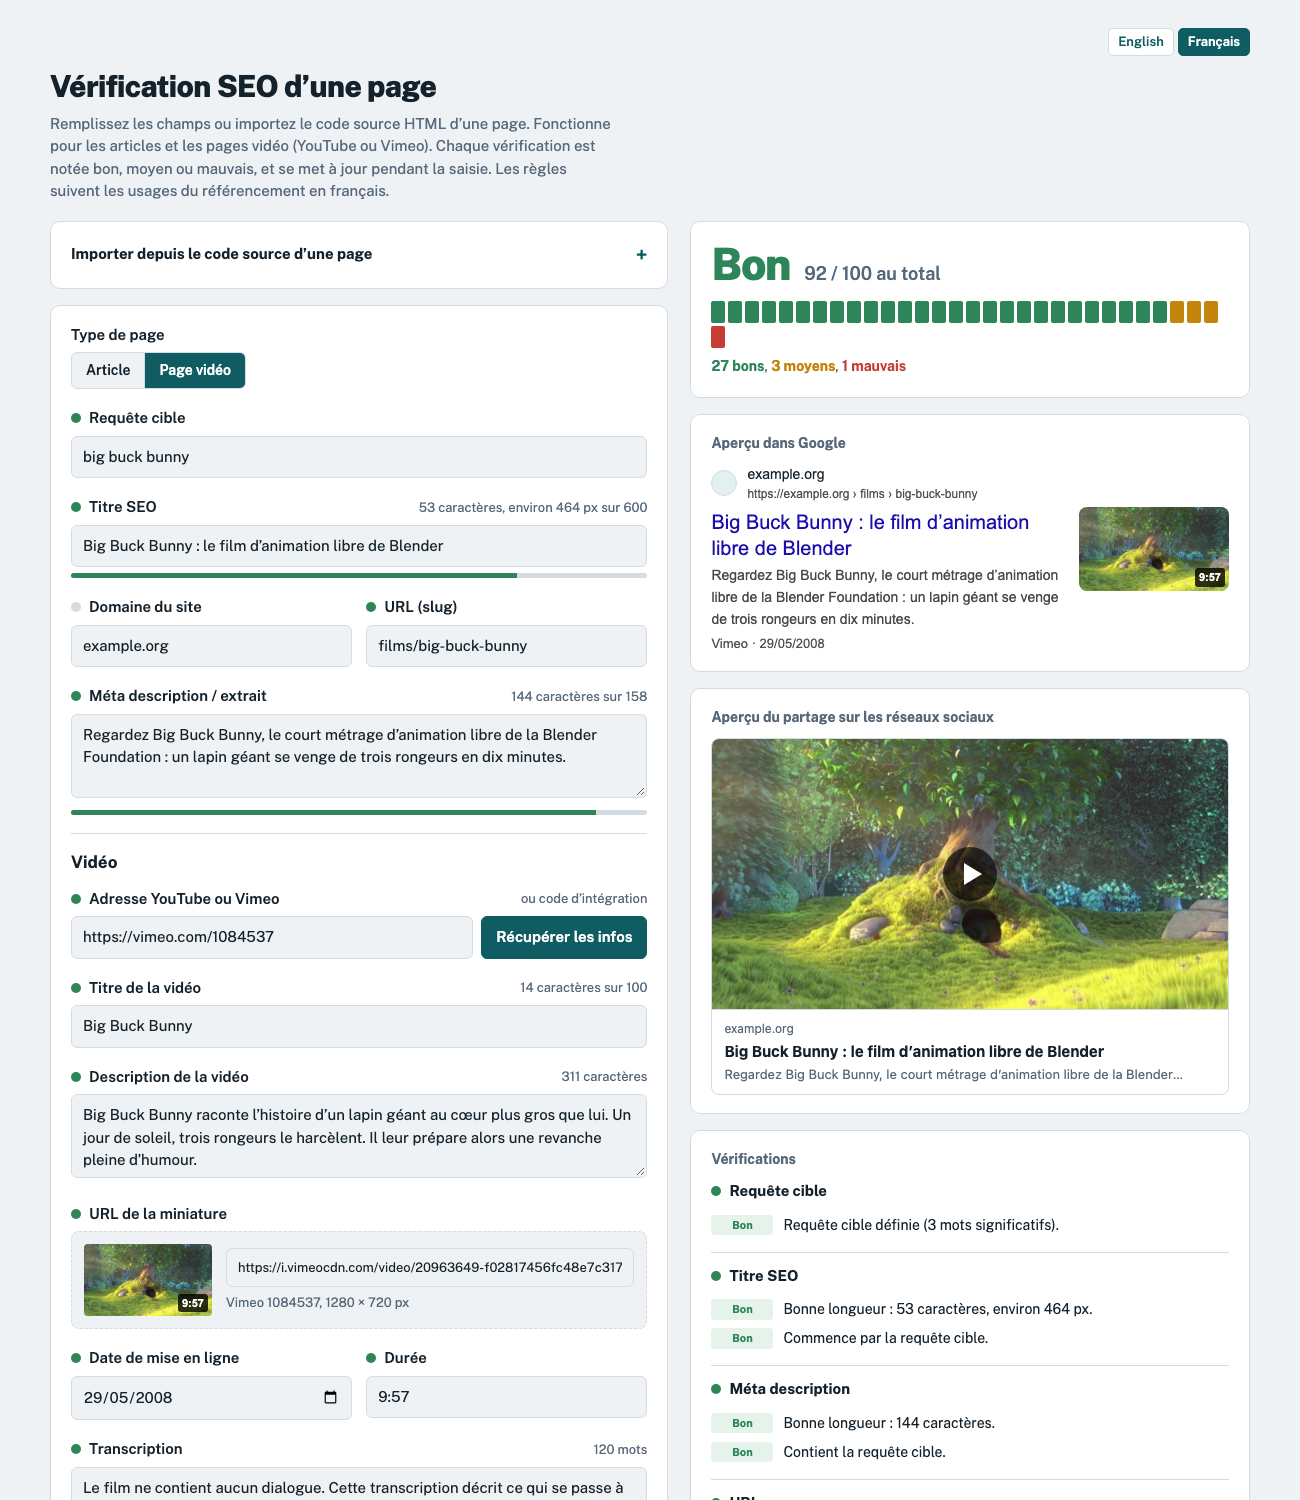
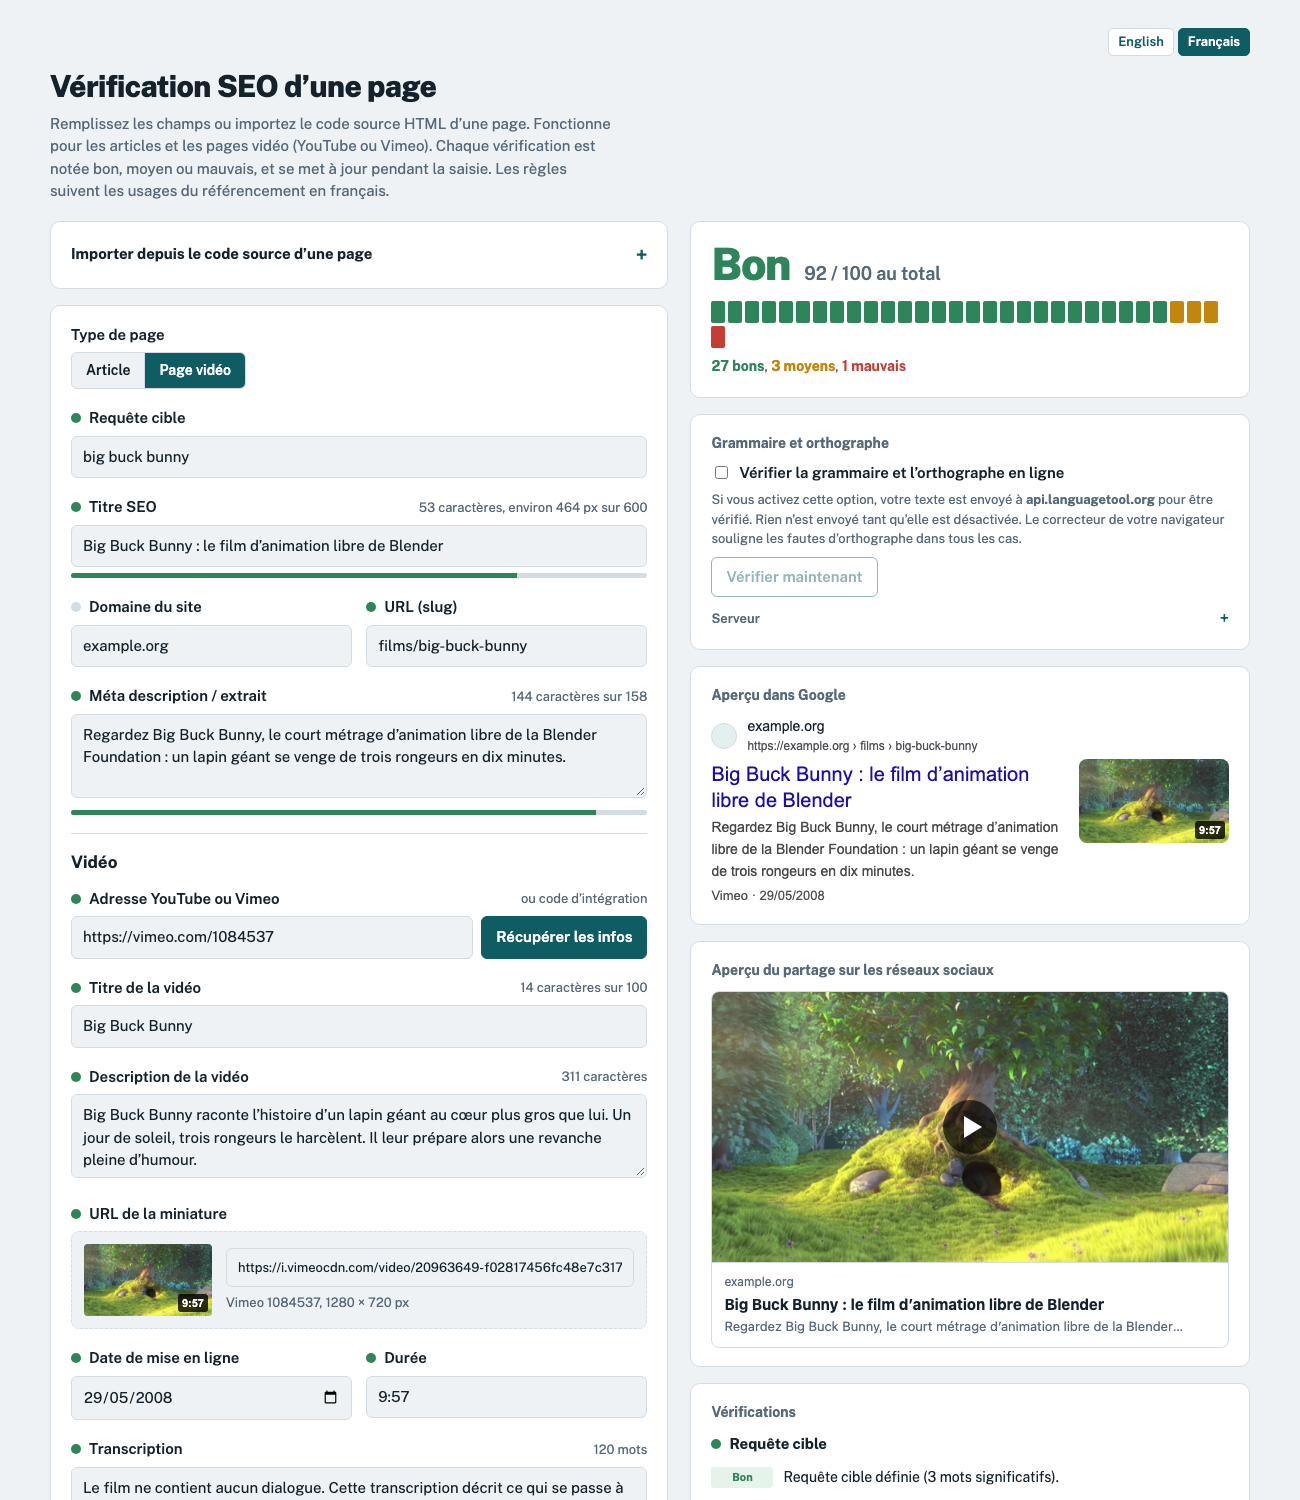
Update README screenshots
Retake the English article, English video and French screenshots in the
light theme, showing the language switch, the grammar and spelling panel
and the example featured image. Show the French screenshot in the README.

Changed region(s): [[0.5231, 0.276, 0.9538, 1.0]]

diff --git a/README.md b/README.md
@@ -94,6 +94,8 @@ The French page at [`/fr/`](https://thecoolsim.github.io/SEO-page-check/fr/) use
 
 Numbers, dates and file sizes use French formats (`3,2 %`, `29/05/2008`, `250 Ko`), and the messages use non-breaking spaces before `:` and `%`. The French page keeps its own draft in the browser, separate from the English one. The two pages link to each other with `hreflang` alternates.
 
+![French version screenshot](docs/screenshot-fr.png)
+
 ### Adding a language
 
 Copy `fr/` to a new folder, translate `index.html`, and adapt the language file. It sets `window.SEO_PAGE_CHECK_LANG` to `{rules, msgs, examples}` before `seo-page-check.js` loads. Any message left out falls back to English. The rules are `storageKey`, `stopwords`, `typography`, `readability` (`base`, `perWord`, `perSyllable`), `transitions` and `sentenceMax`.
